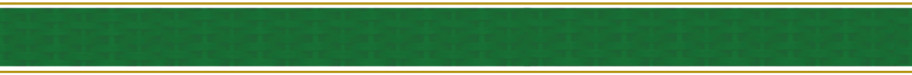
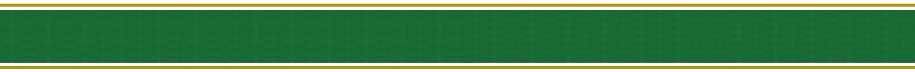
backend productos y algunas arreglos al diseño

Changed region(s): [[0.0, 0.8611, 1.0, 1.0], [0.0, 0.0278, 1.0, 0.1389]]

diff --git a/foodtechDuranjo/foodtechDuranjo/templates/homepage/index.html b/foodtechDuranjo/foodtechDuranjo/templates/homepage/index.html
@@ -31,16 +31,17 @@ FoodTech Inicio
 			<h1>Líder en Carnes Maduradas</h1>
 		</div>
 	</section>
+	<div class="puasVerde"></div>
 	<section class="ofrecemos">
 		<div class="wrapper">
 			<div class="textoProductos">Con calidad FoodTech</div>
 			<ul class="productos">
-				<li><img src="{% static 'img/circu.png' %}" alt="Carne de res"><span>il lorem ipsum.</span></li>
-				<li><img src="{% static 'img/circu.png' %}" alt="Jamón"><span>il lorem ipsum.</span></li>
-				<li><img src="{% static 'img/circu.png' %}" alt="Pollo"><span>il lorem ipsum.</span></li>
-				<li><img src="{% static 'img/circu.png' %}" alt="Pastrini"><span>il lorem ipsum.</span></li>
-				<li><img src="{% static 'img/circu.png' %}" alt="Salsa"><span>il lorem ipsum.</span></li>
-				<li><img src="{% static 'img/circu.png' %}" alt="Delicateses"><span>il lorem ipsum.</span></li>
+				<li><img src="{% static 'img/cir1.png' %}" alt="Carne de res"><span>il lorem ipsum.</span></li>
+				<li><img src="{% static 'img/cir2.png' %}" alt="Jamón"><span>il lorem ipsum.</span></li>
+				<li><img src="{% static 'img/cir3.png' %}" alt="Pollo"><span>il lorem ipsum.</span></li>
+				<li><img src="{% static 'img/cir4.png' %}" alt="Pastrini"><span>il lorem ipsum.</span></li>
+				<li><img src="{% static 'img/cir5.png' %}" alt="Salsa"><span>il lorem ipsum.</span></li>
+				<li><img src="{% static 'img/cir6.png' %}" alt="Delicateses"><span>il lorem ipsum.</span></li>
 			</ul>
 		</div>
 	</section>

diff --git a/foodtechDuranjo/foodtechDuranjo/templates/base.html b/foodtechDuranjo/foodtechDuranjo/templates/base.html
@@ -53,7 +53,7 @@
 				<ul>
 					<li class="index"><a href="{% url 'homepageindex' %}">Inicio</a></li>
 					<li class="about"><a href="{% url 'homepageabout' %}">Sobre nosotros</a></li>
-					<li class="products"><a href="{% url 'homepageproduct' %}">Productos</a></li>
+					<li class="products"><a href="{% url 'productocategoria' %}">Productos</a></li>
 					<li class="contact"><a href="{% url 'homapagecontact' %}">Contacto</a></li>
 				</ul>
 			</nav>
@@ -63,6 +63,7 @@
 		{% block contenido %} {% endblock%}
 	</section>
 	{% block clear %} {% endblock %}
+	<div class="puasMarron"></div>
 	<footer>
 		{% block footer %}{% endblock%}
 		<div class="wrapper">
@@ -90,8 +91,13 @@
 				</li>
 				<li class="menu2">
 					<ul class="sublistaMenu">
+<<<<<<< HEAD
 						<li class="orlando"><a href="{% url 'homepageproduct' %}">Productos</a></li>
 						<li><a href="/blog">Blog</a></li>
+=======
+						<li class="orlando"><a href="{% url 'productocategoria' %}">Productos</a></li>
+						<li>Blog</li>
+>>>>>>> backend productos y algunas arreglos al diseño
 					</ul>
 				</li>
 				<li class="logo">

diff --git a/foodtechDuranjo/foodtechDuranjo/templates/productos/producto.html b/foodtechDuranjo/foodtechDuranjo/templates/productos/producto.html
@@ -1,16 +1,18 @@
-{% extends 'homepage/index.html' %}
+{% extends 'base.html' %}
+{% load url from future %}
+{% load staticfiles %}
 {% block title %}
-Trabajos realizados - Duranjo
+Categorias de productos - Foodtech
 {% endblock %}
 {% block css %}
-<link rel="stylesheet" type="text/css" href="{{ STATIC_URL }}css/index.css">
-<link rel="stylesheet" type="text/css" href="{{ STATIC_URL }}css/seccionlibre.css">
+<link rel="stylesheet" type="text/css" href="{% static 'css/base.css' %}">
+<link rel="stylesheet" type="text/css" href="{% static 'css/productos/producto.css' %}">
 {% endblock %}
 {% block js %}
 <script type="text/javascript" src="//ajax.googleapis.com/ajax/libs/jquery/2.0.0/jquery.min.js"></script>
 {% endblock %}
 {% block contenido %}
-<section class="quienessomos">
+<section class="producto">
 	<div class="wrapper">
 		<div class="tituloStyle"><h2>libre</h2></div>
 	</div>

diff --git a/foodtechDuranjo/foodtechDuranjo/static/css/base.css b/foodtechDuranjo/foodtechDuranjo/static/css/base.css
@@ -63,28 +63,31 @@ html, body{
 .about{
 	margin-right: 220px;
 }
-.barraNavegacion:before, .barraNavegacion:after{
-	background: url(../img/picos.png) no-repeat;
-}
 .barraNavegacion:before{
 	content: "";
 	position: absolute;
-	top: 7px;
+	top: 6px;
 	left: 106ex;
 	display: block;
-	width: 25px;
+	width: 31px;
 	height: 75px;
+	background: url(../img/ladoder.png) no-repeat;
 }
 .barraNavegacion:after{
 	content: "";
 	position: absolute;
 	top: 7px;
-	left: 3ex;
+	left: 13px;
 	display: block;
-	width: 25px;
-	height: 75px;	
+	width: 30px;
+	height: 75px;
+	background: url(../img/ladoizq.png) no-repeat;	
 }
 /* FOOTER */
+.puasMarron{
+	background: url(../img/cachito2.png) repeat-x;
+	height: 11px;
+}
 footer{
 	background: #4B2B09;
 	color: white;

diff --git a/foodtechDuranjo/foodtechDuranjo/templates/productos/categoria.html b/foodtechDuranjo/foodtechDuranjo/templates/productos/categoria.html
@@ -1,0 +1,20 @@
+{% extends 'base.html' %}
+{% load url from future %}
+{% load staticfiles %}
+{% block title %}
+Categorias de productos - Foodtech
+{% endblock %}
+{% block css %}
+<link rel="stylesheet" type="text/css" href="{% static 'css/base.css' %}">
+<link rel="stylesheet" type="text/css" href="{% static 'css/productos/categoria.css' %}">
+{% endblock %}
+{% block js %}
+<script type="text/javascript" src="//ajax.googleapis.com/ajax/libs/jquery/2.0.0/jquery.min.js"></script>
+{% endblock %}
+{% block contenido %}
+<section class="categorias">
+	<div class="wrapper">
+		<div class="tituloStyle"><h2>libre</h2></div>
+	</div>
+</section>
+{% endblock%}

diff --git a/foodtechDuranjo/foodtechDuranjo/static/css/homepage/index.css b/foodtechDuranjo/foodtechDuranjo/static/css/homepage/index.css
@@ -15,8 +15,12 @@ h2{
 }
 
 /* PRODUCTOS OFRECIDOS LINEA VERDE*/
+.puasVerde{
+	background: url(../../img/cachito1.png) repeat-x;
+	height: 13px;
+}
 .ofrecemos{
-	background: green;
+	background: url(../../img/texturaverde.png);
 }
 .textoProductos{
 	font-size: 2.5em;
@@ -31,6 +35,9 @@ h2{
 .productos li{
 	display: inline-block;
 	width: 16%;
+}
+.productos li > img{
+	width: 100%;
 }
 .productos span{
 	display: block;

diff --git a/foodtechDuranjo/foodtechDuranjo/static/css/homepage/about.css b/foodtechDuranjo/foodtechDuranjo/static/css/homepage/about.css
@@ -53,7 +53,7 @@
 	height: 20px;
 	position: absolute;
 	left: -25px;
-	background: url(../../img/banderita.png);
+	background: url(../../img/estrellita.png);
 }
 .restaurantes{
 	text-align: center;

diff --git a/foodtechDuranjo/foodtechDuranjo/static/css/productos/categoria.css b/foodtechDuranjo/foodtechDuranjo/static/css/productos/categoria.css
@@ -1,0 +1,1 @@
+@charset 'utf-8';

diff --git a/foodtechDuranjo/foodtechDuranjo/static/css/productos/producto.css b/foodtechDuranjo/foodtechDuranjo/static/css/productos/producto.css
@@ -1,0 +1,1 @@
+@charset 'utf-8';

diff --git a/foodtechDuranjo/foodtechDuranjo/apps/productos/models.py b/foodtechDuranjo/foodtechDuranjo/apps/productos/models.py
@@ -1,0 +1,40 @@
+# coding: utf-8
+from django.db import models
+from django.core.urlresolvers import reverse
+
+
+class Categoria(models.Model):
+	titulo = models.CharField(max_length=20, help_text='Hasta 20 caracteres y solamente alfanuméricos', unique=True)
+	imagen = models.ImageField(upload_to='imgcategorias')
+	creado_en = models.DateTimeField(auto_now_add=True, editable=False)
+	modificado_en = models.DateTimeField(auto_now=True)
+
+	def __unicode__(self):
+		return self.titulo
+
+	def get_absolute_url(self):
+		titulo = self.titulo.replace(' ', '_')
+		return reverse('categoria', kwargs={'titulo': titulo})
+
+
+class Producto(models.Model):
+	titulo = models.CharField(max_length=25, help_text='Hasta 25 caracteres y solamente alfanuméricos')
+	descripcion_corta = models.CharField(max_length=140, help_text='Hasta 140 caracteres')
+	categoria = models.ForeignKey(Categoria)
+	creado_en = models.DateTimeField(auto_now_add=True, editable=False)
+	modificado_en = models.DateTimeField(auto_now=True)
+	disponible = models.BooleanField(default=True, help_text='Disponibilidad del producto')
+	destacado = models.BooleanField(default=False, help_text='Promocionar producto en sección de destacados')
+
+	def __unicode__(self):
+		return self.titulo
+
+	def get_absolute_url(self):
+		titulo = self.titulo.replace(' ', '_')
+		return reverse('productoproducto', kwargs={'titulo': titulo})
+
+
+class ImgProductos(models.Model):
+	producto = models.ForeignKey(Producto, related_name='imagenes')
+	imagen = models.ImageField(upload_to='imgproductos')
+

diff --git a/foodtechDuranjo/foodtechDuranjo/apps/productos/views.py b/foodtechDuranjo/foodtechDuranjo/apps/productos/views.py
@@ -1,0 +1,26 @@
+#!/usr/local/bin/python
+# -*- coding: utf-8 -*-
+from django.shortcuts import render_to_response
+from django.template import RequestContext
+from foodtechDuranjo.apps.productos.models import Categoria, Producto, ImgProductos
+from django.shortcuts import get_object_or_404
+
+
+def producto(request, titulo):
+	servicio = False
+	titulo = titulo.replace('_', ' ')
+	categoria = get_object_or_404(Categoria, titulo=titulo)
+	productos = Producto.objects.filter(categoria=categoria.pk)
+	imagenes = ImgProductos.objects.filter(producto__in=list(productos))
+	ctx = {'producto': producto, 'imagenes': imagenes, 'servicio': servicio}
+	return render_to_response('productos/producto.html', ctx, context_instance=RequestContext(request))
+
+
+def categoria(request):
+	mensaje = ''
+	lista_categorias = Categoria.objects.all()
+	ctx = {
+		'lista_categorias': lista_categorias,
+		'mensaje': mensaje
+	}
+	return render_to_response('productos/categoria.html', ctx, context_instance=RequestContext(request))

diff --git a/foodtechDuranjo/foodtechDuranjo/apps/productos/admin.py b/foodtechDuranjo/foodtechDuranjo/apps/productos/admin.py
@@ -1,0 +1,29 @@
+from django.contrib import admin
+#from django.contrib.contenttypes import generic
+from foodtechDuranjo.apps.productos.models import Categoria, Producto, ImgProductos
+from foodtechDuranjo.apps.productos.forms import ProductoForm, CategoriaForm
+
+
+class CategoriaAdmin(admin.ModelAdmin):
+	form = CategoriaForm
+	list_display = ('titulo', 'creado_en', 'modificado_en')
+	list_display_links = ('titulo',)
+	search_fields = ['titulo', 'creado_en', 'modificado_en']
+
+
+class ImgProductosInline(admin.TabularInline):
+	model = ImgProductos
+
+
+class ProductoAdmin(admin.ModelAdmin):
+	form = ProductoForm
+	list_display = ('titulo', 'categoria', 'disponible', 'creado_en', 'modificado_en',)
+	list_display_links = ('titulo',)
+	list_filter = ('disponible', 'categoria')
+	search_fields = ['titulo', 'categoria__titulo']
+	inlines = [
+		ImgProductosInline,
+	]
+
+admin.site.register(Categoria, CategoriaAdmin)
+admin.site.register(Producto, ProductoAdmin)
